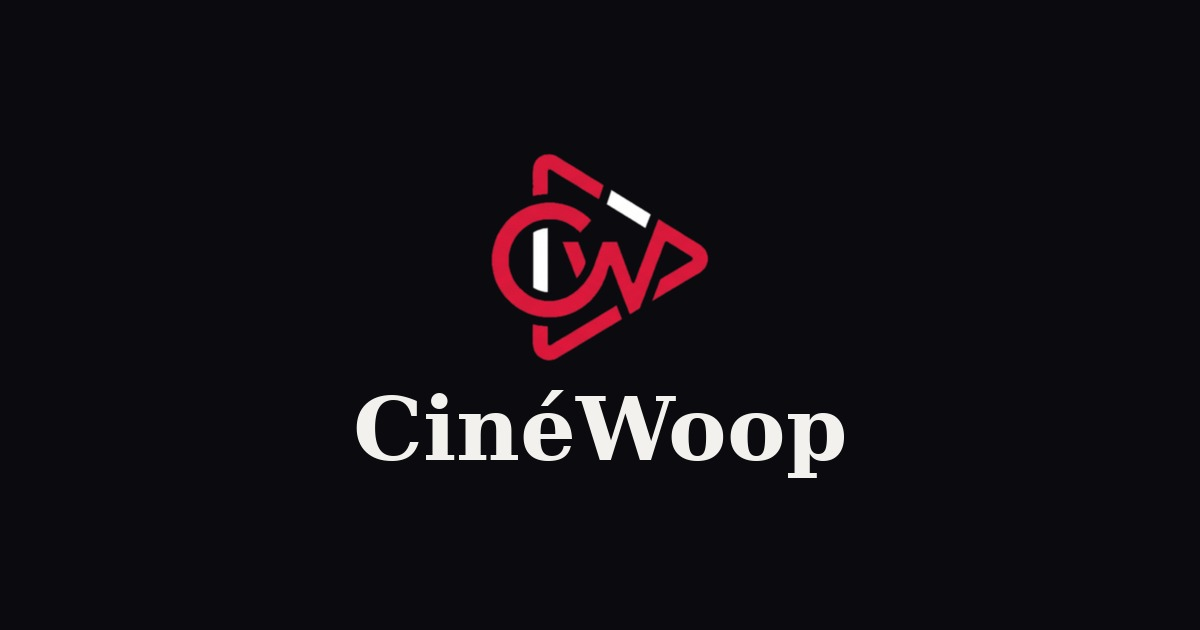
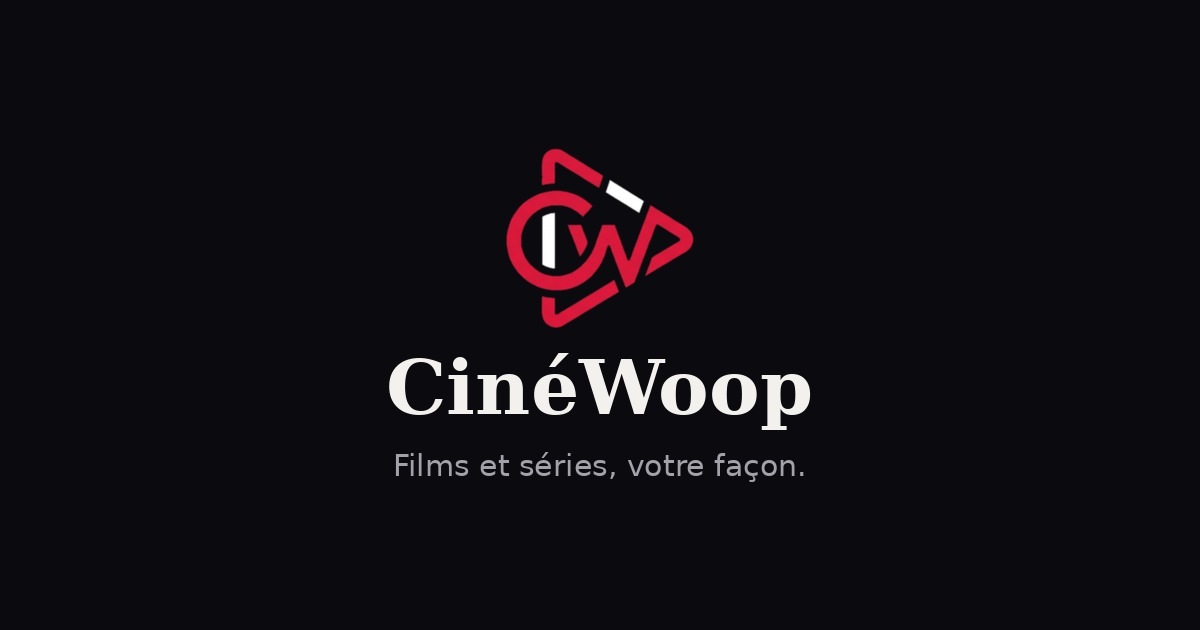
fix: titre/description trop courts + texte d'accroche dans l'image OG
Suite à un scan opengraph.xyz : title (8→58 car.), og:description/
twitter:description (29→118 car.), et ajout d'un tagline dans
og-image.jpg (le scanner signalait l'image sans texte d'accroche).

Claude-Session: https://claude.ai/code/session_01U9cHQ23gUP1488YbAYDYkQ

Changed region(s): [[0.2775, 0.2413, 0.7092, 0.7841]]

diff --git a/docs/index.html b/docs/index.html
@@ -3,7 +3,7 @@
 <head>
 <meta charset="utf-8">
 <meta name="viewport" content="width=device-width, initial-scale=1">
-<title>CinéWoop</title>
+<title>CinéWoop — Films et séries, sous-titres et téléchargements</title>
 <meta name="description" content="CinéWoop est une appli Android de streaming : catalogue films et séries, lecteur vidéo avec gestes et sous-titres, téléchargement, et mises à jour automatiques.">
 
 <meta property="og:type" content="website">
@@ -11,14 +11,14 @@
 <meta property="og:site_name" content="CinéWoop">
 <meta property="og:locale" content="fr_FR">
 <meta property="og:title" content="CinéWoop">
-<meta property="og:description" content="Films et séries, votre façon.">
+<meta property="og:description" content="Films et séries, votre façon : lecteur à gestes, sous-titres qui s’affichent enfin, et téléchargements qu’on retrouve.">
 <meta property="og:image" content="https://cinewoop.vercel.app/og-image.jpg">
 <meta property="og:image:width" content="1200">
 <meta property="og:image:height" content="630">
 
 <meta name="twitter:card" content="summary_large_image">
 <meta name="twitter:title" content="CinéWoop">
-<meta name="twitter:description" content="Films et séries, votre façon.">
+<meta name="twitter:description" content="Films et séries, votre façon : lecteur à gestes, sous-titres qui s’affichent enfin, et téléchargements qu’on retrouve.">
 <meta name="twitter:image" content="https://cinewoop.vercel.app/og-image.jpg">
 
 <link rel="icon" href="favicon.png" type="image/png">
